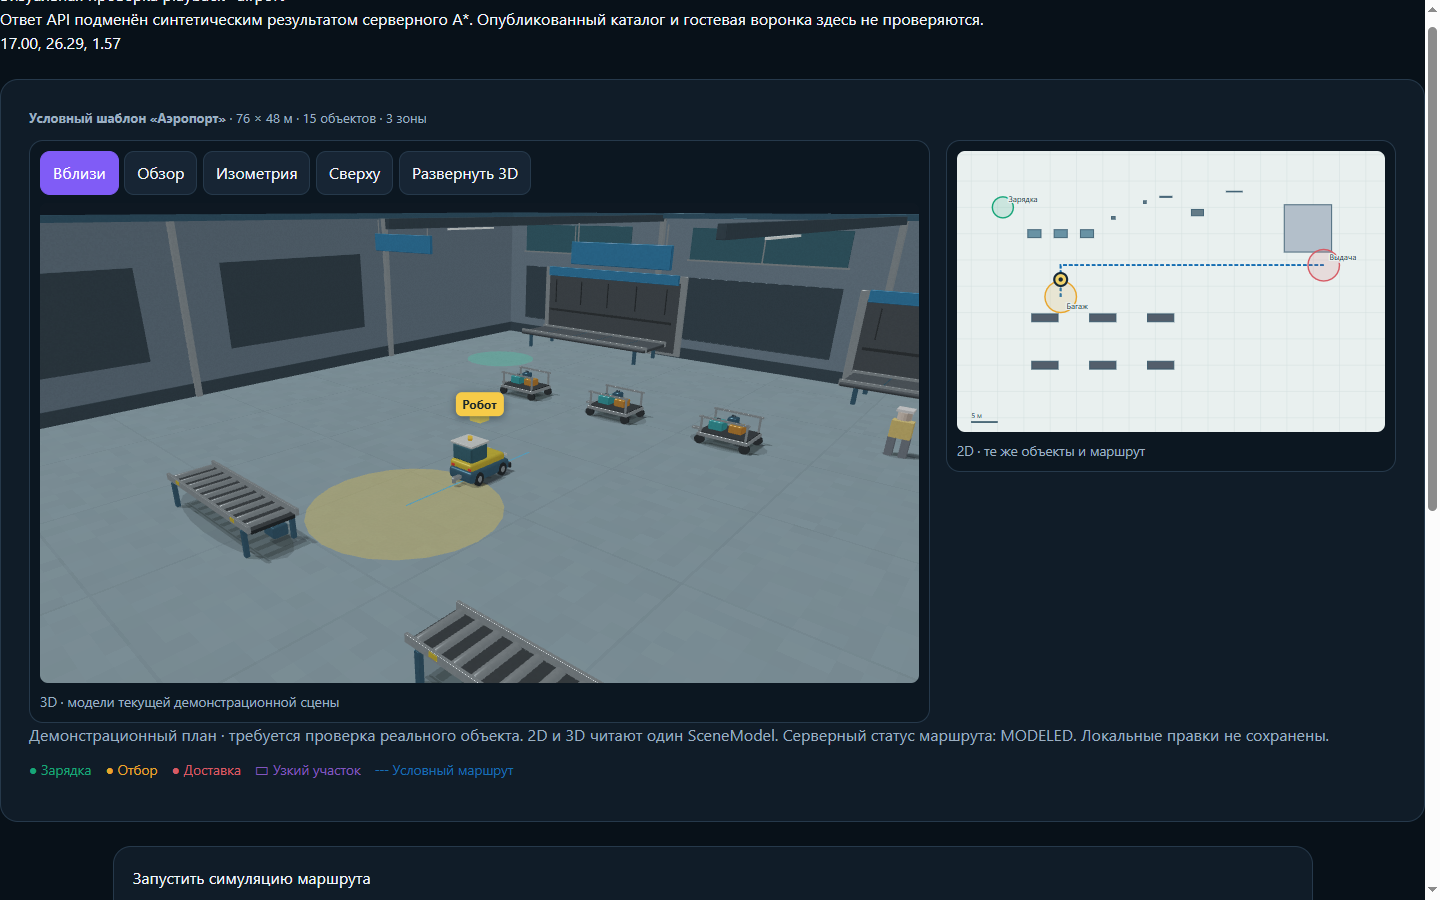
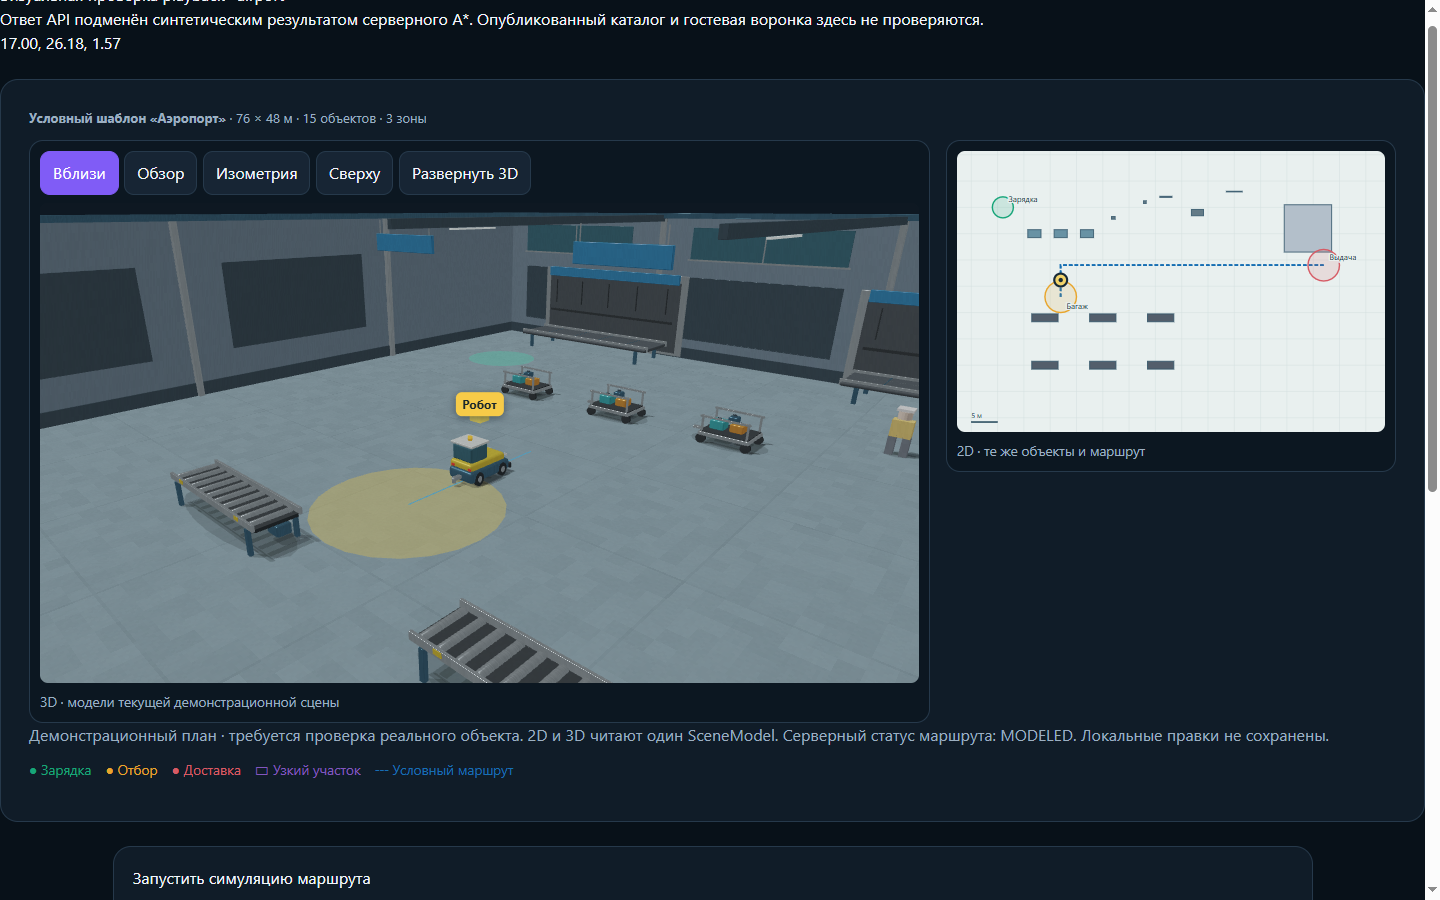
Shade live GLB materials by surface type

diff --git a/frontend/src/sceneRenderer3D.js b/frontend/src/sceneRenderer3D.js
@@ -34,20 +34,48 @@ uniform float uEmission;
 uniform float uAlpha;
 uniform float uFloor;
 uniform float uShadow;
+uniform float uSurface;
 const float PI = 3.14159265;
+float stipple(vec2 point) {
+  return fract(sin(dot(floor(point), vec2(127.1, 311.7))) * 43758.5453);
+}
 void main() {
   if (uShadow > .5) {
     gl_FragColor = vec4(.015, .025, .031, uAlpha);
     return;
   }
   vec3 base = uColor;
+  float surfaceRoughness = uRoughness;
   if (uFloor > .5) {
     float tile = max(step(.985, fract(abs(vPosition.x) / 5.0)), step(.985, fract(abs(vPosition.z) / 5.0)));
-    float aggregate = fract(sin(dot(floor(vPosition.xz * 2.0), vec2(127.1, 311.7))) * 43758.5453);
-    base *= (1.0 - .10 * tile) * (.95 + .08 * aggregate);
+    float aggregate = stipple(vPosition.xz * 2.0);
+    float micro = stipple(vPosition.xz * 14.0);
+    base *= (1.0 - .10 * tile) * (.91 + .13 * aggregate + .06 * micro);
   } else {
-    float grain = fract(sin(dot(floor(vPosition * 17.0), vec3(127.1, 311.7, 74.7))) * 43758.5453);
+    float grain = stipple(vPosition.xz * 17.0 + vPosition.y * 3.0);
     base *= .955 + .09 * grain;
+    if (uSurface > .5 && uSurface < 1.5) {
+      float pulp = stipple(vPosition.xz * 8.0 + vPosition.y * 2.0);
+      float flute = sin(vPosition.x * 43.0 + vPosition.z * 4.0);
+      base *= .78 + .22 * pulp + .045 * flute;
+      surfaceRoughness = .91;
+    } else if (uSurface > 1.5 && uSurface < 2.5) {
+      float knots = stipple(vPosition.xz * 1.9);
+      float rings = sin(vPosition.x * 29.0 + vPosition.z * 8.0 + knots * 4.0);
+      base *= .82 + .15 * rings + .15 * knots;
+      surfaceRoughness = .82;
+    } else if (uSurface > 2.5 && uSurface < 3.5) {
+      float abrasion = stipple(vec2(vPosition.x * 3.0, vPosition.z * 45.0));
+      base *= .91 + .13 * abrasion;
+      surfaceRoughness = max(.25, uRoughness + (abrasion - .5) * .08);
+    } else if (uSurface > 3.5 && uSurface < 4.5) {
+      float mottling = stipple(vPosition.xz * 1.4 + vPosition.y * .2);
+      base *= .88 + .20 * mottling;
+      surfaceRoughness = .88;
+    } else if (uSurface > 4.5 && uSurface < 5.5) {
+      base *= .98 + .03 * stipple(vPosition.xz * 9.0);
+      surfaceRoughness = max(.36, uRoughness);
+    }
   }
   vec3 n = normalize(vNormal);
   vec3 v = normalize(uCamera - vPosition);
@@ -57,10 +85,10 @@ void main() {
   float ndv = max(dot(n, v), 0.001);
   float ndh = max(dot(n, h), 0.0);
   float vdh = max(dot(v, h), 0.0);
-  float a = max(.06, uRoughness * uRoughness);
+  float a = max(.06, surfaceRoughness * surfaceRoughness);
   float a2 = a * a;
   float d = a2 / max(PI * pow(ndh * ndh * (a2 - 1.0) + 1.0, 2.0), .001);
-  float k = pow(uRoughness + 1.0, 2.0) / 8.0;
+  float k = pow(surfaceRoughness + 1.0, 2.0) / 8.0;
   float g = ndv / (ndv * (1.0 - k) + k) * ndl / (ndl * (1.0 - k) + k);
   vec3 f0 = mix(vec3(.04), base, uMetallic);
   vec3 f = f0 + (1.0 - f0) * pow(1.0 - vdh, 5.0);
@@ -158,6 +186,15 @@ function box() {
 const COLOR = { CHARGE: [.08, .72, .46], PICKUP: [.98, .63, .10],
   DROPOFF: [.90, .21, .26], SHARED_LANE: [.48, .31, .75] };
 const MOVING_ROBOT_ASSET = { warehouse: 'pallet_amr', airport: 'airport_tug', clinic: 'indoor_delivery_robot' };
+function surfaceKind(name = '') {
+  const label = name.toLowerCase();
+  if (label.includes('cardboard') || label.includes('corrugated')) return 1;
+  if (label.includes('timber') || label.includes('wood')) return 2;
+  if (label.includes('steel') || label.includes('aluminium') || label.includes('metal')) return 3;
+  if (label.includes('concrete')) return 4;
+  if (label.includes('medical') || label.includes('clinic clean')) return 5;
+  return 0;
+}
 export const HD_VARIANTS = Object.freeze({
   pallet_rack: 'hero_warehouse_rack', pallet_amr: 'hero_pallet_amr',
   forklift_robot: 'hero_robot_forklift', airport_tug: 'hero_airport_tug',
@@ -181,7 +218,7 @@ export class SceneRenderer3D {
     this.program = program;
     gl.useProgram(program);
     this.loc = Object.fromEntries(['aPosition', 'aNormal', 'uModel', 'uViewProjection', 'uColor',
-      'uCamera', 'uMetallic', 'uRoughness', 'uEmission', 'uAlpha', 'uFloor', 'uShadow'].map((name) =>
+      'uCamera', 'uMetallic', 'uRoughness', 'uEmission', 'uAlpha', 'uFloor', 'uShadow', 'uSurface'].map((name) =>
       [name, name.startsWith('a') ? gl.getAttribLocation(program, name) : gl.getUniformLocation(program, name)]));
     gl.enable(gl.DEPTH_TEST);
     gl.enable(gl.BLEND);
@@ -203,11 +240,12 @@ export class SceneRenderer3D {
     this.buffers.forEach((buffer) => gl.deleteBuffer(buffer));
     this.buffers = [];
     this.meshes = Object.fromEntries(Object.entries(meshes).map(([id, mesh]) => [id, {
-      bounds: mesh.bounds, groups: mesh.groups.map((group) => ({ ...group, ...this.upload(group.vertices) })),
+      bounds: mesh.bounds, groups: mesh.groups.map((group) => ({ ...group,
+        surface: surfaceKind(group.materialName), ...this.upload(group.vertices) })),
     }]));
   }
 
-  draw(mesh, model, color, metallic = 0, roughness = .85, emission = 0, alpha = 1, floor = 0, mode = this.gl.TRIANGLES, shadow = 0) {
+  draw(mesh, model, color, metallic = 0, roughness = .85, emission = 0, alpha = 1, floor = 0, mode = this.gl.TRIANGLES, shadow = 0, surface = 0) {
     const gl = this.gl;
     gl.bindBuffer(gl.ARRAY_BUFFER, mesh.buffer);
     gl.enableVertexAttribArray(this.loc.aPosition);
@@ -222,6 +260,7 @@ export class SceneRenderer3D {
     gl.uniform1f(this.loc.uAlpha, alpha);
     gl.uniform1f(this.loc.uFloor, floor);
     gl.uniform1f(this.loc.uShadow, shadow);
+    gl.uniform1f(this.loc.uSurface, surface);
     gl.drawArrays(mode, 0, mesh.count);
   }
 
@@ -259,7 +298,7 @@ export class SceneRenderer3D {
     this.buffers.pop();
     const shell = this.meshes?.[`hero_${scene.scene_id}_shell`];
     if (shell) for (const group of shell.groups) this.draw(group, identity, group.color,
-      group.metallic, group.roughness, group.emission);
+      group.metallic, group.roughness, group.emission, 1, 0, gl.TRIANGLES, 0, group.surface);
     for (const zone of scene.zones) {
       const polygon = zone.polygon_xy_m;
       if (polygon.length < 3) continue;
@@ -311,7 +350,7 @@ export class SceneRenderer3D {
       const position = worldToGltf(object.position_m);
       const model = mat4Model(position, scale, object.rotation_yaw_rad || 0);
       for (const group of asset.groups) this.draw(group, model, group.color,
-        group.metallic, group.roughness, group.emission);
+        group.metallic, group.roughness, group.emission, 1, 0, gl.TRIANGLES, 0, group.surface);
     }
     const stock = this.upload(box());
     for (const object of scene.objects) {
@@ -348,7 +387,7 @@ export class SceneRenderer3D {
         const model = mat4Model(worldToGltf([pose[0], pose[1], 0]),
           objectMeshScale(object, asset.bounds), Number.isFinite(pose[2]) ? pose[2] : object.rotation_yaw_rad || 0);
         for (const group of asset.groups) this.draw(group, model, group.color,
-          group.metallic, group.roughness, group.emission);
+          group.metallic, group.roughness, group.emission, 1, 0, gl.TRIANGLES, 0, group.surface);
       }
       // A bright locator belongs to the UI, while the moving geometry stays at its real footprint.
       const locator = this.upload(box());

diff --git a/frontend/qa/recovery/main.jsx b/frontend/qa/recovery/main.jsx
@@ -21,7 +21,9 @@ const serverResult = object
   : { roles: [{ label: 'Водитель погрузчика', selected_position_id: 'SCENARIO_ROBOT', candidates: [row] }] };
 const originalFetch = window.fetch.bind(window);
 if (!realApi) window.fetch = (url, options) => String(url).includes('/api/v2/') && options?.method === 'POST'
-  ? Promise.resolve(new Response(JSON.stringify(serverResult), { status: 200,
+  ? Promise.resolve(new Response(JSON.stringify(String(url).includes('/route-preview')
+    ? { simulation: fixture.result, catalog_robot_confirmed: false,
+      economics_confirmed: false } : serverResult), { status: 200,
     headers: { 'Content-Type': 'application/json' } }))
   : originalFetch(url, options);
 

diff --git a/robcraft/src/core/glb-model.js b/robcraft/src/core/glb-model.js
@@ -83,7 +83,8 @@ export function decodeGlb(buffer) {
         });
       }
       byMaterial.set(key, vertices);
-      groupMaterials.set(key, { color, emission: material.emissiveFactor?.some(Boolean) ? .4 : 0,
+      groupMaterials.set(key, { color, materialName: material.name || '',
+        emission: material.emissiveFactor?.some(Boolean) ? .4 : 0,
         metallic: material.pbrMetallicRoughness?.metallicFactor || 0,
         roughness: material.pbrMetallicRoughness?.roughnessFactor ?? 1 });
     }

diff --git a/docs/recovery-v2/PROGRESS.md b/docs/recovery-v2/PROGRESS.md
@@ -8,7 +8,7 @@
 | R1 | PARTIAL — REAL BACKEND ROUTES VERIFIED | `SceneSimulationControls` запускает маршрут одной кнопкой, playback 2D/3D и пауза работают. В браузере локальный FastAPI без подмены POST проверен для склада, аэропорта и клиники: template GET 200, route-preview POST 200, поза меняется, пауза держит её, препятствие даёт `NO_ROUTE` и убирает playback. Для аэропорта поток 1750 ед./ч превышает лимит 4000 событий / 4 ч: сервер честно ограничивает поток только для визуализации геометрии, ставит `DEMAND_SAMPLED_FOR_GEOMETRY`, не выдаёт парк и деньги. Backend tests 9/9, targeted ESLint и frontend build PASS. | `capture_real_route.py`, `capture_real_object_routes.py`, `evidence/real-route-{warehouse,airport,clinic}-*.png` и network JSON. Скриншоты аэропорта/клиники просмотрены. Гостевая пятишаговая воронка, экономическое влияние с опубликованным каталогом и production PostgreSQL **не проверены**. Путь `/preview` аэропорта локально отвечает 503 без активного каталога; route-preview не подтверждает модель и NPV. |
 | R2 | PASS — LOCAL STANDALONE | Старт RobCraft предлагает пустую, готовую, DXF или сохранённую сцену и 2D/3D; свободное описание удалено. Ручная камера запускается без автопоказа; каталог `i`, 9 слотов, неограниченное размещение, удаление пустой рукой, рабочие роли точек и быстрый запуск робота работают. Компактная экономика показывает активный парк, CAPEX/NPV либо «нужны вводные»; детальный сценарный расчёт открывается по нажатию. `smoke_robcraft_full.py` прошёл на 1440 и 390: place×3/break×1, CHARGE/WORK/DROPOFF, маршрут, Play/пауза, явные тестовые финансовые вводные, save/reopen. 149/149 RobCraft tests PASS; launcher/2D/3D browser smoke PASS. | `evidence/robcraft-motion-{1440,390}.mp4` (по 24 live кадра), `robcraft-full-{1440,390}.png`, `robcraft-economics-fixture-{1440,390}.png`, `smoke_robcraft_full.py`. Финансовые цифры в fixture получены из явно введённых тестовых значений, не из опубликованного каталога. Интеграция с основной пятишаговой воронкой остаётся в R8. |
 | R3 | PARTIAL — PRODUCTION VERIFICATION | Полный локальный bundle `organizer-catalog-v4`: 187 моделей, 223 позиции, 10/10 файлов прошли SHA-256/size по manifest. 167 профильных тестов PASS: готовность каталога, формулы, физические ограничения, парк, CAPEX/OPEX, ROI/NPV и экспорт. Дополнительно оба генератора staging/readiness в режиме `python -m ... --check` PASS, 7 профильных тестов PASS; прежняя ошибка была import path прямого запуска. | `R3_LOCAL_AUDIT.md`. Production PostgreSQL, фактически активированная версия и цены не проверены; `TEST_DATABASE_URL` отсутствует. Локальный отчёт не выдаётся за production-подтверждение. |
-| R4 | PARTIAL — ART QUALITY | 13 GLB подключены к живому WebGL; тени движутся с роботами. Добавлен крупный ракурс с сопровождением робота. Blender дополнил склад четырьмя воротами и доковым оборудованием, аэропорт четырьмя багажными порталами, лентами и навигацией, клинику дверями кабинетов, поручнями, шкафами и светильниками. `capture_visual.py` теперь снимает 1440×900 со сценой в кадре: движение и пауза всех трёх сцен PASS. GLB tests 3/3 и frontend build PASS. | `evidence/sim-{warehouse,airport,clinic}-after-4s.png` сравнены с тремя JPG из `03_ART_REFERENCES/targets/`. Архитектурная узнаваемость улучшилась, но геометрия, поверхности, свет и компоновка ещё значительно уступают фотореалистичным референсам. Нужны UV/PBR фактуры и проверка FPS. R4 не закрыт. |
+| R4 | PARTIAL — ART QUALITY | 13 GLB подключены к живому WebGL; тени движутся с роботами. Добавлен крупный ракурс с сопровождением робота. Blender дополнил склад четырьмя воротами и доковым оборудованием, аэропорт четырьмя багажными порталами, лентами и навигацией, клинику дверями кабинетов, поручнями, шкафами и светильниками. `capture_visual.py` теперь снимает 1440×900 со сценой в кадре: движение и пауза всех трёх сцен PASS. GLB tests 3/3 и frontend build PASS. Дополнительно GLB-декодер передаёт названия Blender-материалов; WebGL задаёт отдельные процедурные фактуры картона, дерева, металла, бетона и медицинских поверхностей. Повторный browser playback трёх сцен PASS, GLB-тесты основной сцены и RobCraft 10/10 PASS. | `evidence/sim-{warehouse,airport,clinic}-after-4s.png` сравнены с тремя JPG из `03_ART_REFERENCES/targets/`. Архитектурная узнаваемость улучшилась, но геометрия, поверхности, свет и компоновка ещё значительно уступают фотореалистичным референсам. Процедурные фактуры видны на новых браузерных кадрах, но полноценные UV/PBR карты и проверка FPS ещё нужны. R4 не закрыт. |
 | R5 | PARTIAL — SIX-CHAPTER MOTION CUT | Пересобран 36-секундный немой ролик из 360 последовательных браузерных кадров обновлённых живых сцен: склад 3D/2D, аэропорт 3D/2D, клиника 3D/2D. В каждом из шести фрагментов робот менял позу 60/60 кадров; 2D-план занимает основную область своей главы. Плеер даёт шесть глав, перемотку, паузу и субтитры. Frontend build, targeted ESLint, SHA manifest и browser smoke 1280×720/36 с с переходом на клинику 3D PASS. | `build_motion_trailer.py`, `smoke_motion_trailer.py`, шесть `frontend/public/demo/trailer/frames/chapter-*.jpg`, `evidence/trailer-player-clinic.png`. Ключевые кадры просмотрены. Capture всё ещё основан на синтетическом ответе API, что явно указано в кадре и manifest; R4 пока ниже художественного референса. Это промежуточный ролик, не финальная production демонстрация. |
 | R6 | PARTIAL | Обложка инвестиционного PDF показывает KPI и существенные риски без изменения ReportViewModel или формул. Источники теперь выводятся цельными записями с отдельным названием роли, читаемым текстом и заголовком «Источники · продолжение» на новой странице; исправлен разрыв списка посреди записи. Три локальных PDF пересозданы: склад 6, аэропорт 7, клиника 7 страниц. Каждая страница просмотрена в PDF viewer/contact sheets; 21/21 профильных тестов PASS. | `evidence/pdf-layout-fixture-{warehouse,airport,clinic}.pdf`, `*-contact.png`, `*-page*.png`. Это layout fixtures, не production отчёты. Последние страницы аэропорта/клиники остаются сравнительно свободными; полный дизайн второго концепта, реальные данные и пять экранов ещё требуют доводки. R6 не закрыт. |
 | R7 | PARTIAL | Повторный browser smoke на 360/390/768 px после R4: главная, RobCraft, интерактивная 3D/2D сцена и запуск симуляции без общего горизонтального overflow. В мобильной 3D-камере все пять кнопок теперь видны в двух строках. На каждом размере проверены изменяющаяся поза робота и удержание позы после паузы; элементы управления симуляцией видимы на 390 px. Frontend build PASS после правки CSS. | `capture_mobile.py`, `evidence/mobile-{360,390,768}-scene-{3d,2d,playback,controls}.png`. Полная пятишаговая воронка, деньги, результат, скачивание PDF и gestures ещё не подтверждены; R7 не закрыт. |
